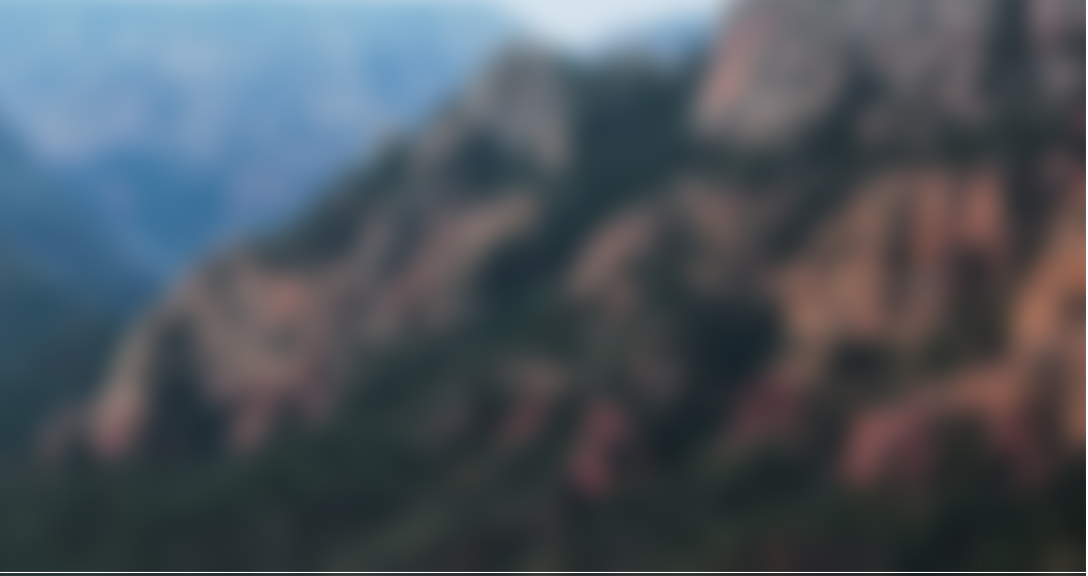
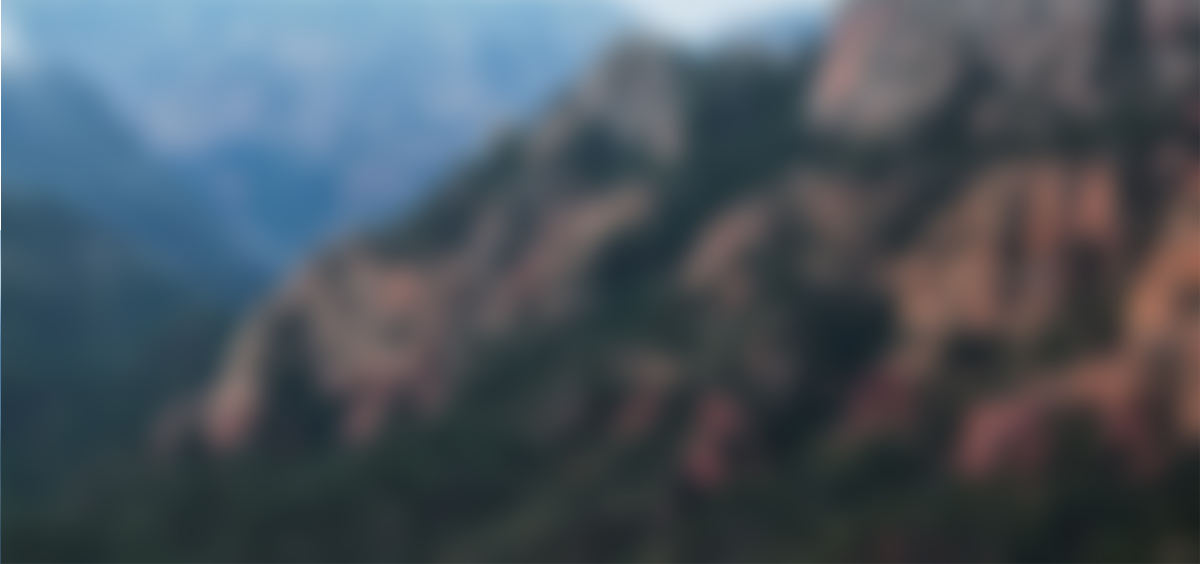
Подправил стилизацию

diff --git a/second-page.html b/second-page.html
@@ -17,7 +17,7 @@
                     <li class="navigation-item"><a href="#"> Информация</a></li>
                     <li class="navigation-item"><a href="#"> Фото и Видео</a></li>
                     <li class="navigation-item item-logo">
-                        <img src="./img/header-logo.svg" alt="city of sedona">
+                        <a href="./start-page.html"><img src="./img/header-logo.svg" alt="city of sedona"></a>
                     </li>
                     <li class="navigation-item"><a href="#"> Карта штата</a></li>
                     <li class="navigation-item item-position" ><a href="#">Гостиницы</a></li>
@@ -32,16 +32,25 @@
             <h3>Инфраструктура:</h3>
         <form class="form-infrastructure" action="#" method="post" >
             <div class="input-infrastructure">
-                <input type="checkbox"  name="name" id="input-pull">
-                    <label for="input-pull">Бассейн</label>
+                    <label class="filter-check_label">
+                            <input type="checkbox" class="filter-check_checkbox" id="discount-checkbox">
+                            <span class="filter-check_checkmark"></span>
+                            <span class="filter-check_label-text">Бассейн</span>
+                        </label>
             </div>
             <div class="input-infrastructure">
-                <input type="checkbox"  name="name" id="input-parking">
-                    <label for="input-parking">Парковка</label>
+                    <label class="filter-check_label">
+                            <input type="checkbox" class="filter-check_checkbox" id="discount-checkbox">
+                            <span class="filter-check_checkmark"></span>
+                            <span class="filter-check_label-text">Парковка</span>
+                        </label>
             </div>
-            <div class="input-infrastructure">
-                <input type="checkbox"  name="name" id="input-wifi">
-                    <label for="input-wifi">Wi-Fi</label>
+            <span class="input-infrastructure">
+                    <label class="filter-check_label">
+                            <input type="checkbox" class="filter-check_checkbox" id="discount-checkbox">
+                            <span class="filter-check_checkmark"></span>
+                            <span class="filter-check_label-text">WI-FI</span>
+                        </label>
             </div>
         </form>
     </div>
@@ -50,16 +59,25 @@
             <h3>Тип жилья:</h3>
         <form class="form-house" action="#" method="post">
             <div class="input-infrastructure">
-                <input type="checkbox"  name="name" id="input-hotel">
-                    <label for="input-hotel">Гостиница</label>
+                    <label class="filter-check_label">
+                            <input type="checkbox" class="filter-check_checkbox" id="discount-checkbox">
+                            <span class="filter-check_checkmark"></span>
+                            <span class="filter-check_label-text">Гостиница</span>
+                        </label>
             </div>
             <div class="input-infrastructure">
-                <input type="checkbox"  name="name" id="input-motel">
-                    <label for="input-motel">Мотель</label>
+                    <label class="filter-check_label">
+                            <input type="checkbox" class="filter-check_checkbox" id="discount-checkbox">
+                            <span class="filter-check_checkmark"></span>
+                            <span class="filter-check_label-text">Мотель</span>
+                        </label>
             </div>
             <div class="input-infrastructure">
-                <input type="checkbox"  name="name" id="input-apartments">
-                    <label for="input-apartments">Апартаменты</label>
+                    <label class="filter-check_label">
+                            <input type="checkbox" class="filter-check_checkbox" id="discount-checkbox">
+                            <span class="filter-check_checkmark"></span>
+                            <span class="filter-check_label-text">Апартаменты</span>
+                        </label>
             </div>
         </form>
     </div>
@@ -179,13 +197,13 @@
                     </div>
                     <ul class="footer-social__list">
                         <li class="footer-social__item">
-                            <a href="#" aria-label="Твитер"><img src="./img/twitter.png" alt="twitter"></a>
+                            <a href="http://twitter.com" aria-label="Твитер"><img src="./img/twitter.png" alt="twitter"></a>
                         </li>   
                         <li class="footer-social__item">
-                            <a href="#" aria-label="Фейсбук"><img src="./img/facebook.png" alt="facebook"></a>
+                            <a href="http://facebook.com" aria-label="Фейсбук"><img src="./img/facebook.png" alt="facebook"></a>
                         </li>  
                         <li class="footer-social__item">
-                            <a href="#" aria-label="Ютуб"><img src="./img/youtube.png" alt="youtube"></a>
+                            <a href="http://youtube.com" aria-label="Ютуб"><img src="./img/youtube.png" alt="youtube"></a>
                         </li>   
                     </ul>
                     <div class="footer-copyright">

diff --git a/css/second-page__style.css b/css/second-page__style.css
@@ -13,7 +13,7 @@
     line-height: 26px;
 
     background-image: url(../img/second-page/second-page__background.png);
-    background-size:100%;
+    
     background-position: top center;
     background-repeat: no-repeat;
   }
@@ -34,36 +34,41 @@
   
     /*HEADER*/
 
-.main-navigation{
-  font-weight: 700; 
-  background-color: #fff;
-
-  padding: 0;
-}
-.navigation-list{
-  display: flex;
-  justify-content: center;
-  align-items: center;
-
-  margin: 0;
-  padding: 0;
-
-  height: 56px;
-}
-.navigation-list a{
-  color:#000;
-}
-.navigation-item{
-  padding-left: 75px;
-  padding-right: 75px;
-}
-.item-logo{
-  height: 100%;
-}
+    .main-navigation{
+      font-weight: 700; 
+      background-color: #fff;
+    
+      padding: 0;
+    }
+    .navigation-list{
+      display: flex;
+      justify-content: center;
+      align-items: center;
+    
+      margin: 0;
+      padding: 0;
+    
+      margin-left: -27px;
+      height: 56px;
+    }
+    .navigation-list a{
+      color:#000;
+    }
+    .navigation-item{
+      padding-left: 75px;
+      padding-right: 75px;
+    }
+    .item-logo{
+      height: 100%;
+    }
 .item-position a{
     color:#766357;
 }
 /*MAIN*/
+.main-container{
+  max-width: 1200px;
+  margin: auto;
+}
 .infrastructure{
     display: flex;
     max-width: 1366px;
@@ -101,6 +106,9 @@
     background:transparent;
     text-transform: uppercase;
     color:#fff;
+}
+.button-cost__view:hover{
+  box-shadow: 0px 4px 25px rgba(19, 17, 17, 0.44), 0px 4px 15px rgba(255, 255, 255, 0.40);
 }
 .category-header{
     display: flex;
@@ -202,8 +210,14 @@
   background-color:#81B3D2;
   margin-right: 6px;
 }
+.button-detail:hover{
+  box-shadow: 0px 4px 25px rgba(255, 255, 255, 0.44), 0px 4px 15px rgba(129,179,210, 0.83);
+}
 .button-reservation{
   background-color: #766357;
+}
+.button-reservation:hover{
+  box-shadow: 0px 4px 25px rgba(255, 255, 255, 0.44), 0px 4px 15px rgba(118,99,87, 0.83);
 }
 /* FOOTER!!!!*/
 
@@ -236,5 +250,3 @@
   color: #81b3d2;
   border:none;
 }
-
-

diff --git a/start-page.html b/start-page.html
@@ -194,13 +194,13 @@
         </div>
         <ul class="footer-social__list">
             <li class="footer-social__item">
-                <a href="#" aria-label="Твитер"><img src="./img/twitter.png" alt="twitter"></a>
+                <a href="http://twitter.com" aria-label="Твитер"><img src="./img/twitter.png" alt="twitter"></a>
             </li>   
             <li class="footer-social__item">
-                <a href="#" aria-label="Фейсбук"><img src="./img/facebook.png" alt="facebook"></a>
+                <a href="http://facebook.com" aria-label="Фейсбук"><img src="./img/facebook.png" alt="facebook"></a>
             </li>  
             <li class="footer-social__item">
-                <a href="#" aria-label="Ютуб"><img src="./img/youtube.png" alt="youtube"></a>
+                <a href="http://youtube.com" aria-label="Ютуб"><img src="./img/youtube.png" alt="youtube"></a>
             </li>   
         </ul>
         <div class="footer-copyright">

diff --git a/css/start-page__style.css b/css/start-page__style.css
@@ -52,8 +52,8 @@
   color:#000;
 }
 .navigation-item{
-  padding-left: 60px;
-  padding-right: 60px;
+  padding-left: 75px;
+  padding-right: 75px;
 }
 .item-logo{
   height: 100%;
@@ -229,6 +229,9 @@
   color:#fff;
   border: none;
   background-color: #81b3d2;  
+}
+.appointment-button:hover{
+  box-shadow: 0px 4px 25px rgba(255, 255, 255, 0.44), 0px 4px 15px rgba(129,179,210, 0.83);
 }
 #appointment-date__arrival{
   margin-left: 21px;
